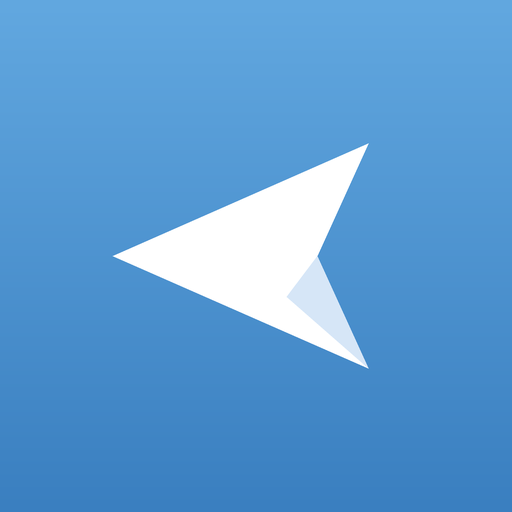
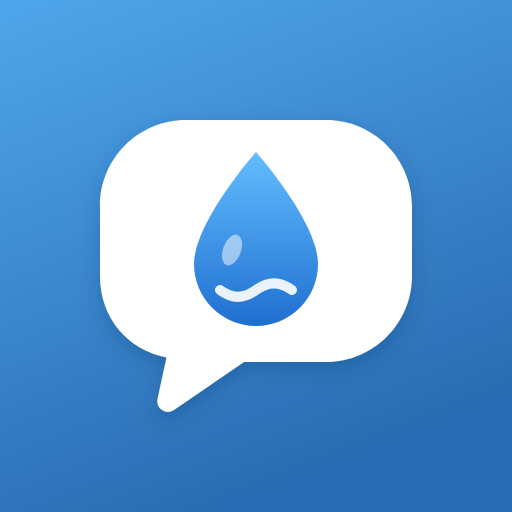
Add files via upload

diff --git a/telegram-alkawthar-press.html b/telegram-alkawthar-press.html
@@ -4,14 +4,14 @@
 <meta charset="UTF-8">
 <meta name="viewport" content="width=device-width, initial-scale=1, maximum-scale=1, viewport-fit=cover, interactive-widget=resizes-content">
 <meta name="theme-color" content="#517da2">
-<link rel="manifest" href="manifest-press.json?v=4.2">
+<link rel="manifest" href="manifest-press.json?v=4.3">
 <link rel="icon" href="icon-192.png">
 <link rel="apple-touch-icon" href="icon-192.png">
 <meta name="apple-mobile-web-app-capable" content="yes">
 <meta name="mobile-web-app-capable" content="yes">
-<meta name="apple-mobile-web-app-title" content="تلكرام الكوثر">
+<meta name="apple-mobile-web-app-title" content="مراسلات الكوثر">
 <meta name="apple-mobile-web-app-status-bar-style" content="default">
-<title>تلكرام الكوثر — المطبعة</title>
+<title>مراسلات الكوثر — المطبعة</title>
 <style>
 :root{--hdr:#517da2;--hdr2:#4a7396;--acc:#3a8fd9;--green:#4fae4e;--bg:#fff;--txt:#222;--mut:#8a959e;--line:#ececec;
 --mine:#effedd;--theirs:#fff;--mtime:#5fa660;--ttime:#a0acb6;--wall:#cfdfc4;--danger:#e0533f}
@@ -231,7 +231,7 @@ a.btn{display:flex;align-items:center;justify-content:center;gap:9px;text-decora
 <script src="https://www.gstatic.com/firebasejs/10.12.2/firebase-messaging-compat.js"></script>
 <script>
 /* =====================================================================
-   تلكرام الكوثر — نسخة المطبعة
+   مراسلات الكوثر — نسخة المطبعة
    ▸ الصور والملفات والصوت تبقى في جهاز المُرسِل فقط
    ▸ عند الضغط على «تحميل» تنتقل مباشرة من جهاز إلى جهاز (WebRTC)
    ▸ Firebase ينقل إشعار الرسالة فقط (نص قصير) ويُحذف فور الوصول
@@ -267,7 +267,7 @@ const PUSH_URL = 'https://telegram-alkawthar-push.tlkramalkwthr.workers.dev';
 
 const APP_NAME = 'مطبعة الكوثر';
 const APP_ROLE = 'press';   // هذا الملف خاص بـالمطبعة
-const APP_VERSION = '4.2';
+const APP_VERSION = '4.3';
 const MAX_FILE = 95 * 1024 * 1024;
 // الصور والصوت والملفات حتى هذا الحجم تمر بالسيرفر مؤقتاً (ثوانٍ) وتُحذف فور وصولها — سريعة مثل التلكرام
 // الملفات الأكبر تنتقل مباشرة من جهاز إلى جهاز
@@ -672,7 +672,7 @@ function startDemoBot(){
     }, 1000);
   }));
   if (S.role === 'teacher') DB.byConv(S.phone).then(ms => { if (!ms.length) setTimeout(() => fs.collection('msgr_queue').add({conv: S.phone, from: 'press', to: S.phone,
-    kind: 'text', text: 'أهلاً بك في تلكرام الكوثر 👋 أرسل لنا ملزمتك أو استفسارك هنا.', name: '', mime: '', size: 0, rid: null, ts: Date.now()}), 800); });
+    kind: 'text', text: 'أهلاً بك في مراسلات الكوثر 👋 أرسل لنا ملزمتك أو استفسارك هنا.', name: '', mime: '', size: 0, rid: null, ts: Date.now()}), 800); });
 }
 
 /* =====================================================================
@@ -734,8 +734,8 @@ function showLogin(){
       <button class="btn" id="lgo">إنشاء الحساب</button><button class="btn sec" id="lback">رجوع</button>`;
   }
   app().innerHTML = `<div class="login">
-    <div class="logo"><svg width="48" height="48" viewBox="0 0 24 24" fill="#fff"><path d="M2 21l21-9L2 3v7l15 2-15 2z" transform="scale(-1,1) translate(-24,0)"/></svg></div>
-    <h2>تلكرام الكوثر</h2>
+    <div class="logo"><svg width="58" height="58" viewBox="96 112 320 320"><path fill="#fff" d="M186 120h140c47.5 0 86 38.5 86 86v70c0 47.5-38.5 86-86 86H244l-70 48c-8 5.5-18.5-1.5-16.5-11l9-41.5C128 350 100 318 100 276v-70c0-47.5 38.5-86 86-86z"/><path fill="#2f86d6" d="M256 152c0 0-62 70-62 112a62 62 0 0 0 124 0c0-42-62-112-62-112z"/><path fill="none" stroke="#fff" stroke-width="10" stroke-linecap="round" d="M220 290c12 9 24 9 36 0s24-9 36 0"/></svg></div>
+    <h2>مراسلات الكوثر</h2>
     <p class="c">${APP_ROLE === 'press' ? 'نسخة المطبعة — تواصل مع المدرسين في كل العراق' : 'تواصل مباشر مع ' + APP_NAME}<br>ملفاتك تبقى في جهازك وتنتقل مباشرة عند التحميل</p>
     <div class="seg"><button class="act" style="cursor:default">${APP_ROLE === 'press' ? 'دخول المطبعة' : 'دخول المدرس'}</button></div>
     ${form}<div class="err" id="lerr"></div>
@@ -1038,7 +1038,7 @@ function deleteSelected(){
 }
 async function updateTitle(){
   const n = (await DB.all('convs')).reduce((a, c) => a + (c.unread || 0), 0);
-  document.title = (n ? `(${n}) ` : '') + 'تلكرام الكوثر';
+  document.title = (n ? `(${n}) ` : '') + 'مراسلات الكوثر';
 }
 
 /* ---------- القائمة الجانبية ---------- */
@@ -1057,7 +1057,7 @@ function openDrawer(){
       <button class="ditem" data-a="settings">${I.gear}الإعدادات</button>
       <button class="ditem" data-a="out" style="color:var(--danger)">${I.out}تسجيل الخروج</button>
     </div>
-    <div style="padding:14px 22px;color:var(--mut);font-size:12.5px">تلكرام الكوثر</div></div>`;
+    <div style="padding:14px 22px;color:var(--mut);font-size:12.5px">مراسلات الكوثر</div></div>`;
   document.body.appendChild(ov);
   requestAnimationFrame(() => ov.classList.add('show'));
   const close = () => { ov.classList.remove('show'); setTimeout(() => ov.remove(), 220); };
@@ -2304,7 +2304,7 @@ function showPhoto(u, title){
 /* ---------- نسيت الرقم السري / مشاركة البرنامج ---------- */
 const WA_ICON = '<svg width="22" height="22" viewBox="0 0 24 24" fill="#fff"><path d="M12 2a10 10 0 0 0-8.6 15.1L2 22l5-1.3A10 10 0 1 0 12 2zm0 18.2a8.2 8.2 0 0 1-4.2-1.2l-.3-.2-3 .8.8-2.9-.2-.3A8.2 8.2 0 1 1 12 20.2zm4.5-6.1c-.2-.1-1.5-.7-1.7-.8s-.4-.1-.6.1-.7.8-.8 1-.3.2-.5.1a6.7 6.7 0 0 1-3.3-2.9c-.3-.4.3-.4.7-1.3.1-.2 0-.3 0-.4l-.8-1.8c-.2-.5-.4-.4-.6-.4h-.5a1 1 0 0 0-.7.3 3 3 0 0 0-.9 2.2 5.2 5.2 0 0 0 1.1 2.7 11.8 11.8 0 0 0 4.5 4c1.7.7 2.3.8 3.2.6a2.7 2.7 0 0 0 1.8-1.2 2.2 2.2 0 0 0 .1-1.2c0-.2-.2-.2-.5-.4z"/></svg>';
 function forgotSheet(){
-  const msg = `السلام عليكم، أنا ${loginExisting?.name || ''} رقم هاتفي ${loginPhone}، نسيت الرقم السري لبرنامج تلكرام الكوثر.`;
+  const msg = `السلام عليكم، أنا ${loginExisting?.name || ''} رقم هاتفي ${loginPhone}، نسيت الرقم السري لبرنامج مراسلات الكوثر.`;
   const ov = sheet(`<h3>نسيت الرقم السري؟</h3>
     <p style="line-height:1.8;color:#555">راسل ${APP_NAME} على واتساب وسيرسلون لك رقمك السري.</p>
     <div style="text-align:center;font-size:24px;font-weight:600;direction:ltr;margin:16px 0;letter-spacing:1px">${WA_DISPLAY}</div>
@@ -2319,13 +2319,13 @@ function teacherAppUrl(){
 }
 function shareApp(){
   const url = teacherAppUrl();
-  const text = `📩 تلكرام الكوثر\nبرنامج التواصل المباشر مع ${APP_NAME}: أرسل ملزماتك وصورك وملفاتك ورسائلك بسهولة.\nسجّل برقم هاتفك من هذا الرابط:\n${url}`;
+  const text = `📩 مراسلات الكوثر\nبرنامج التواصل المباشر مع ${APP_NAME}: أرسل ملزماتك وصورك وملفاتك ورسائلك بسهولة.\nسجّل برقم هاتفك من هذا الرابط:\n${url}`;
   const ov = sheet(`<h3>مشاركة البرنامج</h3>
     <p style="line-height:1.8;color:#555;margin-bottom:10px">أرسل رابط برنامج الأستاذ للمدرسين حتى يسجّلوا ويتواصلوا مع ${APP_NAME}.</p>
     <a class="btn wa" href="https://wa.me/?text=${encodeURIComponent(text)}" target="_blank" rel="noopener">${WA_ICON}مشاركة على واتساب</a>
     ${navigator.share ? '<button class="btn" id="shN">مشاركة بتطبيق آخر</button>' : ''}
     <button class="btn sec" id="shC">نسخ الرابط</button>`);
-  if (ov.querySelector('#shN')) ov.querySelector('#shN').onclick = async () => { try { await navigator.share({title: 'تلكرام الكوثر', text, url}); ov.remove(); } catch(e){} };
+  if (ov.querySelector('#shN')) ov.querySelector('#shN').onclick = async () => { try { await navigator.share({title: 'مراسلات الكوثر', text, url}); ov.remove(); } catch(e){} };
   ov.querySelector('#shC').onclick = async () => { try { await navigator.clipboard.writeText(text); toast('تم نسخ الرابط والرسالة'); } catch(e){ toast('تعذر النسخ'); } };
 }
 
@@ -2497,7 +2497,7 @@ function installSheet(){
   const old = $('#instOv'); if (old) old.remove();
   const ov = sheet(`<div style="text-align:center">
       <img src="icon-192.png" alt="" style="width:72px;height:72px;border-radius:18px;margin:0 auto 10px;display:block;background:#4a8ad0" onerror="this.style.display='none'">
-      <h3 style="margin-bottom:4px">تنزيل تلكرام الكوثر</h3>
+      <h3 style="margin-bottom:4px">تنزيل مراسلات الكوثر</h3>
       <div style="color:var(--mut);font-size:14px;margin-bottom:12px">يظهر على شاشة هاتفك مثل أي تطبيق، ويفتح بضغطة واحدة</div></div>
     <div id="instBody"></div>
     <button class="btn sec" id="instLater">لاحقاً</button>`);
@@ -2520,7 +2520,7 @@ function fillInstall(){
       step(1, 'افتح الرابط بمتصفح <b>Safari</b>') +
       step(2, `اضغط زر المشاركة ${SHARE_IOS} أسفل الشاشة`) +
       step(3, 'انزل للأسفل واختر <b>«إضافة إلى الشاشة الرئيسية»</b>') +
-      step(4, 'اضغط <b>«إضافة»</b> — تظهر أيقونة تلكرام الكوثر على شاشتك') +
+      step(4, 'اضغط <b>«إضافة»</b> — تظهر أيقونة مراسلات الكوثر على شاشتك') +
       `<div class="note">بعد التنزيل افتح البرنامج من الأيقونة دائماً، حتى تصلك الإشعارات.</div>`;
   } else {
     box.innerHTML = `<div style="font-weight:600;margin-bottom:4px">على الأندرويد:</div>` +
@@ -2528,7 +2528,7 @@ function fillInstall(){
       step(1, 'افتح الرابط بمتصفح <b>Chrome</b>') +
       step(2, 'اضغط <b>⋮</b> أعلى الشاشة') +
       step(3, 'اختر <b>«تثبيت التطبيق»</b> أو <b>«إضافة إلى الشاشة الرئيسية»</b>') +
-      step(4, 'اضغط <b>«تثبيت»</b> — تظهر أيقونة تلكرام الكوثر على شاشتك');
+      step(4, 'اضغط <b>«تثبيت»</b> — تظهر أيقونة مراسلات الكوثر على شاشتك');
   }
 }
 async function enableNotifications(){

diff --git a/telegram-alkawthar-teacher.html b/telegram-alkawthar-teacher.html
@@ -4,14 +4,14 @@
 <meta charset="UTF-8">
 <meta name="viewport" content="width=device-width, initial-scale=1, maximum-scale=1, viewport-fit=cover, interactive-widget=resizes-content">
 <meta name="theme-color" content="#517da2">
-<link rel="manifest" href="manifest-teacher.json?v=4.2">
+<link rel="manifest" href="manifest-teacher.json?v=4.3">
 <link rel="icon" href="icon-192.png">
 <link rel="apple-touch-icon" href="icon-192.png">
 <meta name="apple-mobile-web-app-capable" content="yes">
 <meta name="mobile-web-app-capable" content="yes">
-<meta name="apple-mobile-web-app-title" content="تلكرام الكوثر">
+<meta name="apple-mobile-web-app-title" content="مراسلات الكوثر">
 <meta name="apple-mobile-web-app-status-bar-style" content="default">
-<title>تلكرام الكوثر — المدرس</title>
+<title>مراسلات الكوثر — المدرس</title>
 <style>
 :root{--hdr:#517da2;--hdr2:#4a7396;--acc:#3a8fd9;--green:#4fae4e;--bg:#fff;--txt:#222;--mut:#8a959e;--line:#ececec;
 --mine:#effedd;--theirs:#fff;--mtime:#5fa660;--ttime:#a0acb6;--wall:#cfdfc4;--danger:#e0533f}
@@ -231,7 +231,7 @@ a.btn{display:flex;align-items:center;justify-content:center;gap:9px;text-decora
 <script src="https://www.gstatic.com/firebasejs/10.12.2/firebase-messaging-compat.js"></script>
 <script>
 /* =====================================================================
-   تلكرام الكوثر — نسخة المدرس
+   مراسلات الكوثر — نسخة المدرس
    ▸ الصور والملفات والصوت تبقى في جهاز المُرسِل فقط
    ▸ عند الضغط على «تحميل» تنتقل مباشرة من جهاز إلى جهاز (WebRTC)
    ▸ Firebase ينقل إشعار الرسالة فقط (نص قصير) ويُحذف فور الوصول
@@ -267,7 +267,7 @@ const PUSH_URL = 'https://telegram-alkawthar-push.tlkramalkwthr.workers.dev';
 
 const APP_NAME = 'مطبعة الكوثر';
 const APP_ROLE = 'teacher';   // هذا الملف خاص بـالمدرس
-const APP_VERSION = '4.2';
+const APP_VERSION = '4.3';
 const MAX_FILE = 95 * 1024 * 1024;
 // الصور والصوت والملفات حتى هذا الحجم تمر بالسيرفر مؤقتاً (ثوانٍ) وتُحذف فور وصولها — سريعة مثل التلكرام
 // الملفات الأكبر تنتقل مباشرة من جهاز إلى جهاز
@@ -672,7 +672,7 @@ function startDemoBot(){
     }, 1000);
   }));
   if (S.role === 'teacher') DB.byConv(S.phone).then(ms => { if (!ms.length) setTimeout(() => fs.collection('msgr_queue').add({conv: S.phone, from: 'press', to: S.phone,
-    kind: 'text', text: 'أهلاً بك في تلكرام الكوثر 👋 أرسل لنا ملزمتك أو استفسارك هنا.', name: '', mime: '', size: 0, rid: null, ts: Date.now()}), 800); });
+    kind: 'text', text: 'أهلاً بك في مراسلات الكوثر 👋 أرسل لنا ملزمتك أو استفسارك هنا.', name: '', mime: '', size: 0, rid: null, ts: Date.now()}), 800); });
 }
 
 /* =====================================================================
@@ -734,8 +734,8 @@ function showLogin(){
       <button class="btn" id="lgo">إنشاء الحساب</button><button class="btn sec" id="lback">رجوع</button>`;
   }
   app().innerHTML = `<div class="login">
-    <div class="logo"><svg width="48" height="48" viewBox="0 0 24 24" fill="#fff"><path d="M2 21l21-9L2 3v7l15 2-15 2z" transform="scale(-1,1) translate(-24,0)"/></svg></div>
-    <h2>تلكرام الكوثر</h2>
+    <div class="logo"><svg width="58" height="58" viewBox="96 112 320 320"><path fill="#fff" d="M186 120h140c47.5 0 86 38.5 86 86v70c0 47.5-38.5 86-86 86H244l-70 48c-8 5.5-18.5-1.5-16.5-11l9-41.5C128 350 100 318 100 276v-70c0-47.5 38.5-86 86-86z"/><path fill="#2f86d6" d="M256 152c0 0-62 70-62 112a62 62 0 0 0 124 0c0-42-62-112-62-112z"/><path fill="none" stroke="#fff" stroke-width="10" stroke-linecap="round" d="M220 290c12 9 24 9 36 0s24-9 36 0"/></svg></div>
+    <h2>مراسلات الكوثر</h2>
     <p class="c">${APP_ROLE === 'press' ? 'نسخة المطبعة — تواصل مع المدرسين في كل العراق' : 'تواصل مباشر مع ' + APP_NAME}<br>ملفاتك تبقى في جهازك وتنتقل مباشرة عند التحميل</p>
     <div class="seg"><button class="act" style="cursor:default">${APP_ROLE === 'press' ? 'دخول المطبعة' : 'دخول المدرس'}</button></div>
     ${form}<div class="err" id="lerr"></div>
@@ -1038,7 +1038,7 @@ function deleteSelected(){
 }
 async function updateTitle(){
   const n = (await DB.all('convs')).reduce((a, c) => a + (c.unread || 0), 0);
-  document.title = (n ? `(${n}) ` : '') + 'تلكرام الكوثر';
+  document.title = (n ? `(${n}) ` : '') + 'مراسلات الكوثر';
 }
 
 /* ---------- القائمة الجانبية ---------- */
@@ -1057,7 +1057,7 @@ function openDrawer(){
       <button class="ditem" data-a="settings">${I.gear}الإعدادات</button>
       <button class="ditem" data-a="out" style="color:var(--danger)">${I.out}تسجيل الخروج</button>
     </div>
-    <div style="padding:14px 22px;color:var(--mut);font-size:12.5px">تلكرام الكوثر</div></div>`;
+    <div style="padding:14px 22px;color:var(--mut);font-size:12.5px">مراسلات الكوثر</div></div>`;
   document.body.appendChild(ov);
   requestAnimationFrame(() => ov.classList.add('show'));
   const close = () => { ov.classList.remove('show'); setTimeout(() => ov.remove(), 220); };
@@ -2304,7 +2304,7 @@ function showPhoto(u, title){
 /* ---------- نسيت الرقم السري / مشاركة البرنامج ---------- */
 const WA_ICON = '<svg width="22" height="22" viewBox="0 0 24 24" fill="#fff"><path d="M12 2a10 10 0 0 0-8.6 15.1L2 22l5-1.3A10 10 0 1 0 12 2zm0 18.2a8.2 8.2 0 0 1-4.2-1.2l-.3-.2-3 .8.8-2.9-.2-.3A8.2 8.2 0 1 1 12 20.2zm4.5-6.1c-.2-.1-1.5-.7-1.7-.8s-.4-.1-.6.1-.7.8-.8 1-.3.2-.5.1a6.7 6.7 0 0 1-3.3-2.9c-.3-.4.3-.4.7-1.3.1-.2 0-.3 0-.4l-.8-1.8c-.2-.5-.4-.4-.6-.4h-.5a1 1 0 0 0-.7.3 3 3 0 0 0-.9 2.2 5.2 5.2 0 0 0 1.1 2.7 11.8 11.8 0 0 0 4.5 4c1.7.7 2.3.8 3.2.6a2.7 2.7 0 0 0 1.8-1.2 2.2 2.2 0 0 0 .1-1.2c0-.2-.2-.2-.5-.4z"/></svg>';
 function forgotSheet(){
-  const msg = `السلام عليكم، أنا ${loginExisting?.name || ''} رقم هاتفي ${loginPhone}، نسيت الرقم السري لبرنامج تلكرام الكوثر.`;
+  const msg = `السلام عليكم، أنا ${loginExisting?.name || ''} رقم هاتفي ${loginPhone}، نسيت الرقم السري لبرنامج مراسلات الكوثر.`;
   const ov = sheet(`<h3>نسيت الرقم السري؟</h3>
     <p style="line-height:1.8;color:#555">راسل ${APP_NAME} على واتساب وسيرسلون لك رقمك السري.</p>
     <div style="text-align:center;font-size:24px;font-weight:600;direction:ltr;margin:16px 0;letter-spacing:1px">${WA_DISPLAY}</div>
@@ -2319,13 +2319,13 @@ function teacherAppUrl(){
 }
 function shareApp(){
   const url = teacherAppUrl();
-  const text = `📩 تلكرام الكوثر\nبرنامج التواصل المباشر مع ${APP_NAME}: أرسل ملزماتك وصورك وملفاتك ورسائلك بسهولة.\nسجّل برقم هاتفك من هذا الرابط:\n${url}`;
+  const text = `📩 مراسلات الكوثر\nبرنامج التواصل المباشر مع ${APP_NAME}: أرسل ملزماتك وصورك وملفاتك ورسائلك بسهولة.\nسجّل برقم هاتفك من هذا الرابط:\n${url}`;
   const ov = sheet(`<h3>مشاركة البرنامج</h3>
     <p style="line-height:1.8;color:#555;margin-bottom:10px">أرسل رابط برنامج الأستاذ للمدرسين حتى يسجّلوا ويتواصلوا مع ${APP_NAME}.</p>
     <a class="btn wa" href="https://wa.me/?text=${encodeURIComponent(text)}" target="_blank" rel="noopener">${WA_ICON}مشاركة على واتساب</a>
     ${navigator.share ? '<button class="btn" id="shN">مشاركة بتطبيق آخر</button>' : ''}
     <button class="btn sec" id="shC">نسخ الرابط</button>`);
-  if (ov.querySelector('#shN')) ov.querySelector('#shN').onclick = async () => { try { await navigator.share({title: 'تلكرام الكوثر', text, url}); ov.remove(); } catch(e){} };
+  if (ov.querySelector('#shN')) ov.querySelector('#shN').onclick = async () => { try { await navigator.share({title: 'مراسلات الكوثر', text, url}); ov.remove(); } catch(e){} };
   ov.querySelector('#shC').onclick = async () => { try { await navigator.clipboard.writeText(text); toast('تم نسخ الرابط والرسالة'); } catch(e){ toast('تعذر النسخ'); } };
 }
 
@@ -2497,7 +2497,7 @@ function installSheet(){
   const old = $('#instOv'); if (old) old.remove();
   const ov = sheet(`<div style="text-align:center">
       <img src="icon-192.png" alt="" style="width:72px;height:72px;border-radius:18px;margin:0 auto 10px;display:block;background:#4a8ad0" onerror="this.style.display='none'">
-      <h3 style="margin-bottom:4px">تنزيل تلكرام الكوثر</h3>
+      <h3 style="margin-bottom:4px">تنزيل مراسلات الكوثر</h3>
       <div style="color:var(--mut);font-size:14px;margin-bottom:12px">يظهر على شاشة هاتفك مثل أي تطبيق، ويفتح بضغطة واحدة</div></div>
     <div id="instBody"></div>
     <button class="btn sec" id="instLater">لاحقاً</button>`);
@@ -2520,7 +2520,7 @@ function fillInstall(){
       step(1, 'افتح الرابط بمتصفح <b>Safari</b>') +
       step(2, `اضغط زر المشاركة ${SHARE_IOS} أسفل الشاشة`) +
       step(3, 'انزل للأسفل واختر <b>«إضافة إلى الشاشة الرئيسية»</b>') +
-      step(4, 'اضغط <b>«إضافة»</b> — تظهر أيقونة تلكرام الكوثر على شاشتك') +
+      step(4, 'اضغط <b>«إضافة»</b> — تظهر أيقونة مراسلات الكوثر على شاشتك') +
       `<div class="note">بعد التنزيل افتح البرنامج من الأيقونة دائماً، حتى تصلك الإشعارات.</div>`;
   } else {
     box.innerHTML = `<div style="font-weight:600;margin-bottom:4px">على الأندرويد:</div>` +
@@ -2528,7 +2528,7 @@ function fillInstall(){
       step(1, 'افتح الرابط بمتصفح <b>Chrome</b>') +
       step(2, 'اضغط <b>⋮</b> أعلى الشاشة') +
       step(3, 'اختر <b>«تثبيت التطبيق»</b> أو <b>«إضافة إلى الشاشة الرئيسية»</b>') +
-      step(4, 'اضغط <b>«تثبيت»</b> — تظهر أيقونة تلكرام الكوثر على شاشتك');
+      step(4, 'اضغط <b>«تثبيت»</b> — تظهر أيقونة مراسلات الكوثر على شاشتك');
   }
 }
 async function enableNotifications(){

diff --git a/sw.js b/sw.js
@@ -1,4 +1,4 @@
-/* تلكرام الكوثر — Service Worker v3.1 (لا يخزّن أي ملفات) */
+/* مراسلات الكوثر — Service Worker v4.3 (لا يخزّن أي ملفات) */
 self.addEventListener('install', () => self.skipWaiting());
 self.addEventListener('activate', e => e.waitUntil(self.clients.claim()));
 
@@ -12,7 +12,7 @@ self.addEventListener('push', e => {
     const list = await self.clients.matchAll({ type: 'window', includeUncontrolled: true });
     const mine = list.filter(c => c.url.startsWith(self.registration.scope));
     if (mine.some(c => c.visibilityState === 'visible' && c.focused !== false)) return;
-    return self.registration.showNotification(d.title || 'تلكرام الكوثر', {
+    return self.registration.showNotification(d.title || 'مراسلات الكوثر', {
       body: d.body || 'رسالة جديدة',
       tag: d.tag || undefined,
       renotify: !!d.tag,
@@ -55,7 +55,7 @@ self.addEventListener('fetch', e => {
 self.addEventListener('fetch', e => {
   if (e.request.mode !== 'navigate') return;
   e.respondWith(fetch(e.request.url, {cache: 'no-store', credentials: 'same-origin'}).catch(() => fetch(e.request)).catch(() => new Response(
-    '<!DOCTYPE html><html dir="rtl" lang="ar"><meta charset="utf-8"><meta name="viewport" content="width=device-width,initial-scale=1"><body style="font-family:Tahoma,sans-serif;text-align:center;padding:60px 20px;color:#444"><h2>لا يوجد اتصال بالإنترنت</h2><p>تأكد من الإنترنت ثم أعد فتح تلكرام الكوثر</p><button onclick="location.reload()" style="padding:12px 24px;font-size:16px;border:0;border-radius:9px;background:#3a8fd9;color:#fff">إعادة المحاولة</button></body></html>',
+    '<!DOCTYPE html><html dir="rtl" lang="ar"><meta charset="utf-8"><meta name="viewport" content="width=device-width,initial-scale=1"><body style="font-family:Tahoma,sans-serif;text-align:center;padding:60px 20px;color:#444"><h2>لا يوجد اتصال بالإنترنت</h2><p>تأكد من الإنترنت ثم أعد فتح مراسلات الكوثر</p><button onclick="location.reload()" style="padding:12px 24px;font-size:16px;border:0;border-radius:9px;background:#3a8fd9;color:#fff">إعادة المحاولة</button></body></html>',
     { headers: { 'Content-Type': 'text/html; charset=utf-8' } })));
 });
 
